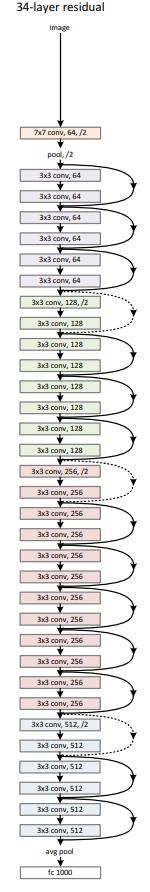
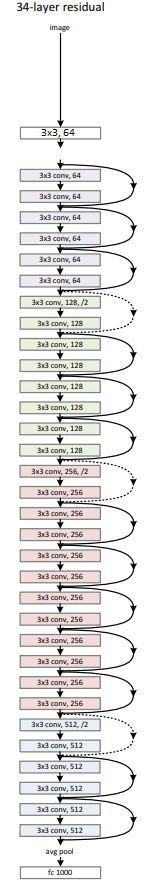
Update

Changed region(s): [[0.1333, 0.1211, 0.6667, 0.1816]]

diff --git a/README.md b/README.md
@@ -14,16 +14,17 @@ There are 2 convolutions in ResNet34 whereas in ResNet50 v1.5 there are 3 convol
 ResNet composed of 4 main groups of blocks. The difference between ResNet34 and ResNet50 is that first one has 34 layers and later has 50 layers. Moreover 
 the number blocks in group is different in each of them. The image below explains architecture of both models. Unlike original paper, we have stride=1 in first convolution 
 of a model and don't use pooling after that. Moreover first group of blocks uses only stride=1. First blocks of later groups has stride=2.
-This is done because input size of CIFAR-10 is ** 32x32 ** which is much smaller than size of ImageNet.
+This is done because input size of CIFAR-10 is ** 32x32 ** which is much smaller than size of ImageNet. 
 <p align="center">
     <img src="assets/arch.PNG" width="450"/>
 </p>
+The difference between ResNet50 and ResNet50 v1.5 is that in later's building block we use stride 2 in the 3x3 convolution, instead of the first 1x1 convolution.   
 
 ## Training
 ```
 python3 train.py
 ```
-SGD optmizer was used for training with *learning_rate=0.01*, *momentum=0.9* and *weight_decay=5e-4*. Training is done for 70 epochs on NVIDIA RTX2070. Training time is approximatle 1 hour.    
+SGD optmizer was used for training with *learning_rate=0.01*, *momentum=0.9* and *weight_decay=5e-4*. Training is done for 70 epochs on NVIDIA RTX2070. Training time is approximatlely 1 hour.    
     
 **ResNet34**
 <p align="center">
@@ -58,7 +59,7 @@ Model evaluation metrics are *TOP1 Accuracy* and *TOP5 Accuracy*.
 * Matplotlib 3.1.1
 
 ## PS.
-This is how full architecture of ResNet34 looks like. Take a look at resiadual connection between each block. ResNet50 v1.5 is similar, unless it is more deep(has more layers).
+This is how full architecture of ResNet34 looks like. Take a look at residual connection between each block. ResNet50 v1.5 is similar, unless it is more deep(has more layers).
 <p align="center">
     <img src="assets/ResNet34_architecture.PNG" width="200"/>
 </p>
